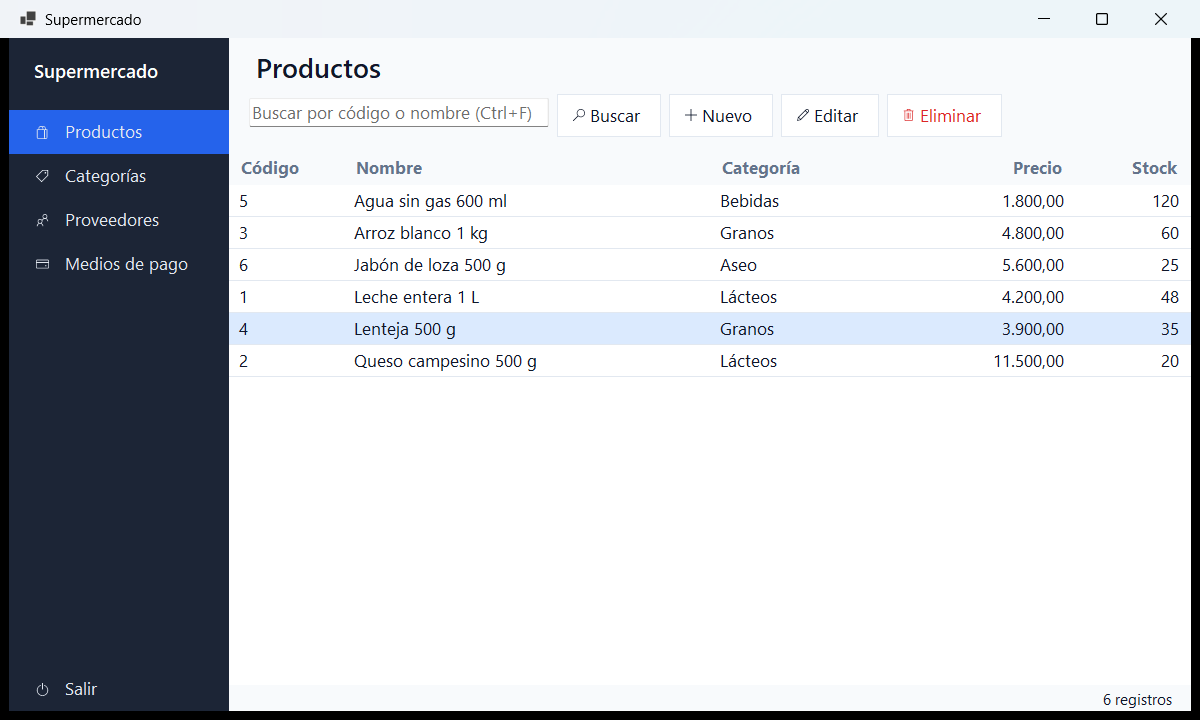
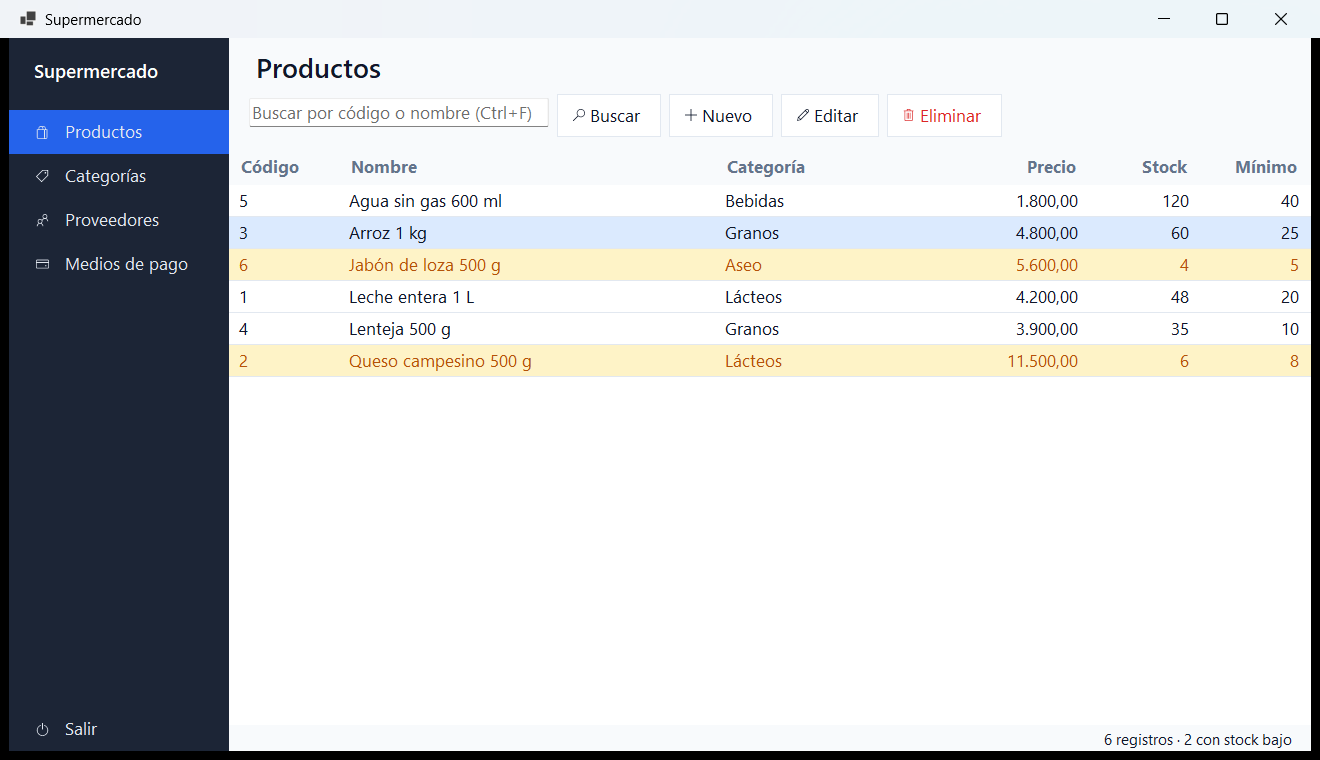
docs: describe minimum stock and local verification, refresh screenshots

diff --git a/README.md b/README.md
@@ -10,6 +10,7 @@ Construida con **.NET 10**, **Windows Forms** y **SQL Server**, siguiendo el pat
 
 - CRUD completo de productos, categorías, proveedores y medios de pago.
 - Búsqueda por código o por nombre parcial. En productos también busca por categoría.
+- Stock mínimo por producto: los productos que necesitan reposición se resaltan, y la barra de estado indica cuántos son.
 - Validación en dos niveles: reglas de dominio con Data Annotations y restricciones en la base de datos (`UNIQUE`, `CHECK`, `FOREIGN KEY`).
 - Mensajes claros para errores esperados: nombres duplicados, registros en uso o registros eliminados por otro usuario.
 - Base de datos creada y migrada automáticamente al iniciar, con datos de ejemplo opcionales.
@@ -54,7 +55,7 @@ flowchart LR
 - **Un presentador genérico.** `CrudPresenter<T>` implementa el flujo una sola vez. `CatalogPresenter<T>` y `ProductPresenter` solo agregan lo que es propio de cada uno, en lugar de duplicar cuatro presentadores casi idénticos.
 - **Excepciones de dominio.** Los repositorios convierten los errores 547, 2601 y 2627 de SQL Server en `DataConflictException`, y las filas afectadas = 0 en `EntityNotFoundException`. Los presentadores nunca dependen del proveedor de base de datos.
 - **SQL seguro.** Todos los valores viajan como parámetros. Los comodines de `LIKE` (`%`, `_`, `[`) se escapan para que buscar "50%" encuentre exactamente eso.
-- **Esquema versionado.** Los scripts `schema.sql` y `seed.sql` son idempotentes, van embebidos en el ensamblado y son los mismos que usan la aplicación y las pruebas de integración.
+- **Esquema versionado.** Los scripts `schema.sql` y `seed.sql` son idempotentes, van embebidos en el ensamblado y son los mismos que usan la aplicación y las pruebas de integración. Los cambios de esquema se agregan como pasos que actualizan bases existentes (por ejemplo, la columna `MinimumStock`), y una prueba de integración verifica esa actualización.
 - **Async de punta a punta**, con protección contra dobles clics mientras hay una operación en curso.
 - **Calidad en la compilación:** `TreatWarningsAsErrors`, analizadores .NET (`latest-recommended`), estilo de código verificado en el build, gestión central de paquetes y auditoría de vulnerabilidades de NuGet.
 
@@ -92,6 +93,17 @@ Crea `src/Supermarket.WinForms/appsettings.Local.json`. Git lo ignora, así que 
 }
 ```
 
+## Verificación local
+
+`build.ps1` ejecuta los mismos controles que correría un servidor de integración continua, pero en tu máquina:
+
+```powershell
+./build.ps1                    # formato, build Release, pruebas unitarias y de integración
+./build.ps1 -SkipIntegration   # sin Docker
+```
+
+Si Docker no está corriendo, el script omite las pruebas de integración y lo indica.
+
 ## Pruebas
 
 ```bash
@@ -114,6 +126,7 @@ Las pruebas de integración usan [Testcontainers](https://dotnet.testcontainers.
 ├── tests
 │   ├── Supermarket.Core.Tests                 # xUnit, sin base de datos
 │   └── Supermarket.Data.IntegrationTests      # xUnit + Testcontainers
+├── build.ps1                     # Verificación local: formato, build y pruebas
 ├── Directory.Build.props         # Configuración común de compilación y análisis
 ├── Directory.Packages.props      # Versiones centralizadas de NuGet
 └── docker-compose.yml            # SQL Server local para desarrollo
